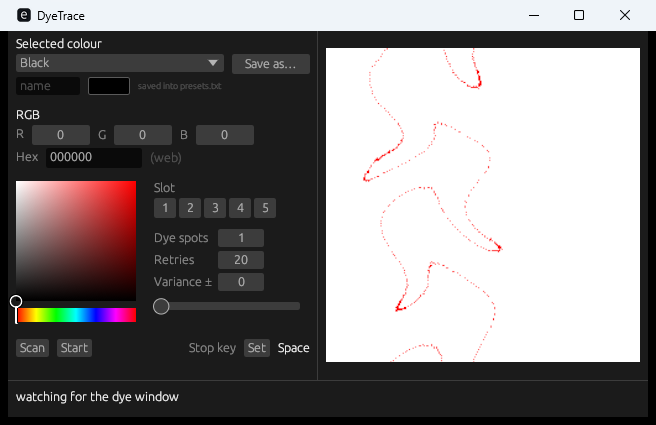
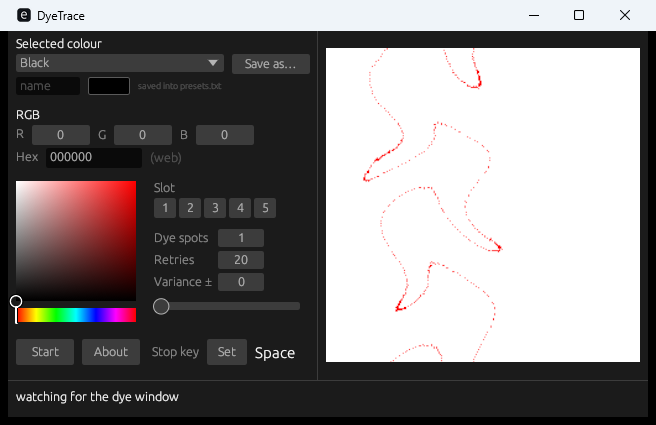
Start, About and the stop key share one row
Scan is gone and Start measures the offsets itself before it rolls: the run arms the picker anyway, so the extra pass costs nothing and the window still gets the sample markers to draw. About sits between Start and the stop key, which now lines up in the same column as Dye spots, Retries and Variance. All three are larger, the window no longer resizes, and About opens a short how-to with the repository link.

Changed region(s): [[0.2439, 0.7953, 0.4878, 0.8565], [0.0, 0.7953, 0.2134, 0.8565]]

diff --git a/crates/ui/src/app.rs b/crates/ui/src/app.rs
@@ -62,6 +62,8 @@ pub struct DyeTraceApp {
     stop_on: egui::Key,
     /// Waiting for the player to press the key they want.
     recording: bool,
+    /// Is the About window open?
+    about: bool,
     scan: Option<Scan>,
     status: String,
 
@@ -98,6 +100,7 @@ impl DyeTraceApp {
             stop_key,
             stop_on: hotkey::default_key(),
             recording: false,
+            about: false,
             scan: None,
             status: "watching for the dye window".to_string(),
         };
@@ -297,26 +300,46 @@ impl DyeTraceApp {
 
         ui.add_space(14.0);
         let busy = self.worker.busy;
+        let side = ui.available_width().min(120.0);
+
         ui.horizontal(|ui| {
-            if ui.add_enabled(!busy, egui::Button::new("Scan")).clicked() {
-                self.worker.submit(Job::Scan(self.options(true)));
-            }
-            if ui.add_enabled(!busy, egui::Button::new("Start")).clicked() {
-                self.worker.submit(Job::Auto(self.options(false)));
+            let row = ui.cursor().min.x;
+
+            let mut start = false;
+            let mut about = false;
+            ui.add_enabled_ui(!busy, |ui| {
+                start = ui
+                    .add_sized([58.0, 26.0], egui::Button::new("Start"))
+                    .clicked();
+                about = ui
+                    .add_sized([58.0, 26.0], egui::Button::new("About"))
+                    .clicked();
+            });
+
+            // The stop key sits in the same column as the numbers above it.
+            let want = row + side + 16.0;
+            let here = ui.cursor().min.x;
+            if want > here {
+                ui.add_space(want - here);
             }
 
-            ui.with_layout(egui::Layout::right_to_left(egui::Align::Center), |ui| {
-                let shown = if self.recording {
-                    "press a key".to_string()
-                } else {
-                    self.stop_on.name().to_string()
-                };
-                ui.label(RichText::new(shown).strong());
-                if ui.button("Set").clicked() {
-                    self.recording = true;
-                }
-                ui.label("Stop key");
-            });
+            ui.label("Stop key");
+            if ui.add_sized([40.0, 26.0], egui::Button::new("Set")).clicked() {
+                self.recording = true;
+            }
+            let shown = if self.recording {
+                "press a key".to_string()
+            } else {
+                self.stop_on.name().to_string()
+            };
+            ui.label(RichText::new(shown).strong().size(15.0));
+
+            if start {
+                self.worker.submit(Job::Auto(self.options(false)));
+            }
+            if about {
+                self.about = true;
+            }
         });
     }
 
@@ -523,6 +546,45 @@ impl DyeTraceApp {
         }
     }
 
+    /// What the tool is, and how to use it.
+    fn about_window(&mut self, ctx: &egui::Context) {
+        if !self.about {
+            return;
+        }
+
+        let mut open = true;
+        egui::Window::new("About DyeTrace")
+            .open(&mut open)
+            .collapsible(false)
+            .resizable(false)
+            .default_width(340.0)
+            .anchor(egui::Align2::CENTER_CENTER, [0.0, 0.0])
+            .show(ctx, |ui| {
+                ui.label(
+                    RichText::new("An open-source dye palette finder for Mabinogi").strong(),
+                );
+                ui.add_space(6.0);
+                ui.label("Open the Dye window in game and leave it visible.");
+                ui.label(
+                    "The picture on the right is the palette: white where the colour is not",
+                );
+                ui.label("there, red where it is.");
+                ui.label("1. Pick the colour: RGB, hex, or the square.");
+                ui.label("2. Dye spots is how many of the five samples must hold it;");
+                ui.label("   Slot pins particular samples the dye window numbers 1 to 5.");
+                ui.label("3. Start rolls the dye until it finds a place and clicks it.");
+                ui.label("4. The stop key ends a run; Set records a different one.");
+                ui.add_space(8.0);
+                ui.hyperlink_to(
+                    "github.com/ryuugana/DyeTrace",
+                    "https://github.com/ryuugana/DyeTrace",
+                );
+                ui.label(RichText::new("MIT licensed.").weak().small());
+            });
+
+        self.about = open;
+    }
+
     /// The one line of feedback, along the bottom edge of the window.
     fn status_bar(&mut self, ui: &mut egui::Ui) {
         ui.add_space(6.0);
@@ -555,6 +617,7 @@ impl eframe::App for DyeTraceApp {
 
         egui::SidePanel::left("controls")
             .resizable(false)
+            .default_width(340.0)
             .exact_width(310.0)
             .show(ctx, |ui| {
                 self.controls(ui);
@@ -563,5 +626,7 @@ impl eframe::App for DyeTraceApp {
         egui::CentralPanel::default().show(ctx, |ui| {
             ui.vertical_centered(|ui| self.preview_panel(ui));
         });
+
+        self.about_window(ctx);
     }
 }

diff --git a/crates/ui/src/worker.rs b/crates/ui/src/worker.rs
@@ -12,8 +12,6 @@ use crate::preview::{Capture, Preview};
 
 #[derive(Clone, Debug)]
 pub enum Job {
-    /// Prepare a search and report the best candidate; never clicks.
-    Scan(Options),
     /// Run the whole cycle.
     Auto(Options),
 }
@@ -94,34 +92,18 @@ fn run_job(job: Job, capture: &Capture, messages: &Sender<Msg>, stop: &Arc<Atomi
     };
 
     match job {
-        Job::Scan(mut opts) => {
-            opts.stop = Some(Arc::clone(stop));
-            send(Msg::Status("scanning".to_string()));
-            match cycle::scan_once(&window, capture, &mouse, &opts) {
-                Ok(scan) => {
-                    let mut summary = match scan.best {
-                        Some(best) => format!(
-                            "best ({},{}) - {} #{}",
-                            best.x,
-                            best.y,
-                            cycle::found_phrase(best.count, scan.asked, scan.asked < scan.table.len()),
-                            hex(opts.colour)
-                        ),
-                        None => "no candidate".to_string(),
-                    };
-                    if scan.armed {
-                        summary.push_str(" (armed the picker)");
-                    }
-                    send(Msg::Status(summary));
-                    send(Msg::Scanned(Box::new(scan)));
-                }
-                Err(err) => send(Msg::Status(fail_text(err))),
-            }
-        }
-
         Job::Auto(mut opts) => {
             opts.stop = Some(Arc::clone(stop));
-            send(Msg::Status("auto running - Stop to end".to_string()));
+            send(Msg::Status("starting".to_string()));
+
+            // Measure the offsets first, and show them: the run arms the picker
+            // anyway, so this costs one pass and the window can mark the samples
+            // while the cycle goes.
+            match cycle::scan_once(&window, capture, &mouse, &opts) {
+                Ok(scan) => send(Msg::Scanned(Box::new(scan))),
+                Err(err) => send(Msg::Status(fail_text(err))),
+            }
+
             let outcome = cycle::run(&window, capture, &mouse, &opts, |_| {});
             send(Msg::Status(match outcome {
                 cycle::Outcome::Matched {

diff --git a/crates/ui/src/main.rs b/crates/ui/src/main.rs
@@ -18,7 +18,8 @@ fn main() -> eframe::Result<()> {
         viewport: eframe::egui::ViewportBuilder::default()
             .with_inner_size([640.0, 386.0])
             .with_min_inner_size([620.0, 366.0])
-            .with_title("DyeTrace"),
+            .with_title("DyeTrace")
+            .with_resizable(false),
         ..Default::default()
     };
 

diff --git a/README.md b/README.md
@@ -74,8 +74,8 @@ The preview looks after itself: as soon as the dye window is on screen it shows
 the hit map for the chosen colour, and it keeps it current. It pauses while a
 colour is being picked (the button reads Start Dyeing) and resumes on Cancel,
 because a legend drawn over the grid would otherwise end up in the picture. The
-sample markers belong to the roll they were measured on: once the palette is
-rolled again they disappear until the next Scan.
+sample markers belong to the roll they were measured on: a rolled palette means
+they disappear until a run measures them again.
 
 | Control | Meaning |
 |---|---|
@@ -86,8 +86,8 @@ rolled again they disappear until the next Scan.
 | `Dye spots` | How many of the five samples must hold the colour (1–5). Which samples fill that up is where `Slot` comes in. |
 | `Retries` | How many new rolls a run may try, after the first, before giving up. `0` keeps rolling until a match or the stop key. |
 | `Variance ±` | Per-channel tolerance as a number, or drag the slider below it. `0` = exact match. |
-| `Scan` | Read the client's sample offsets, search, and draw the hit map. Nothing is clicked except Pick Color, and only if the picker is not already armed. |
 | `Start` | Run the cycle until it clicks a match or the stop key is pressed. |
+| `About` | What the tool does, the short version of the steps, and the repository link. |
 | `Stop key` | `Set` waits for a key press and records it; the key shown beside the button is the one that stops a running cycle. Space by default. It is polled globally, so it works while the game has the keyboard focus. |
 
 The preview is the same view the original presents: white with red where the
